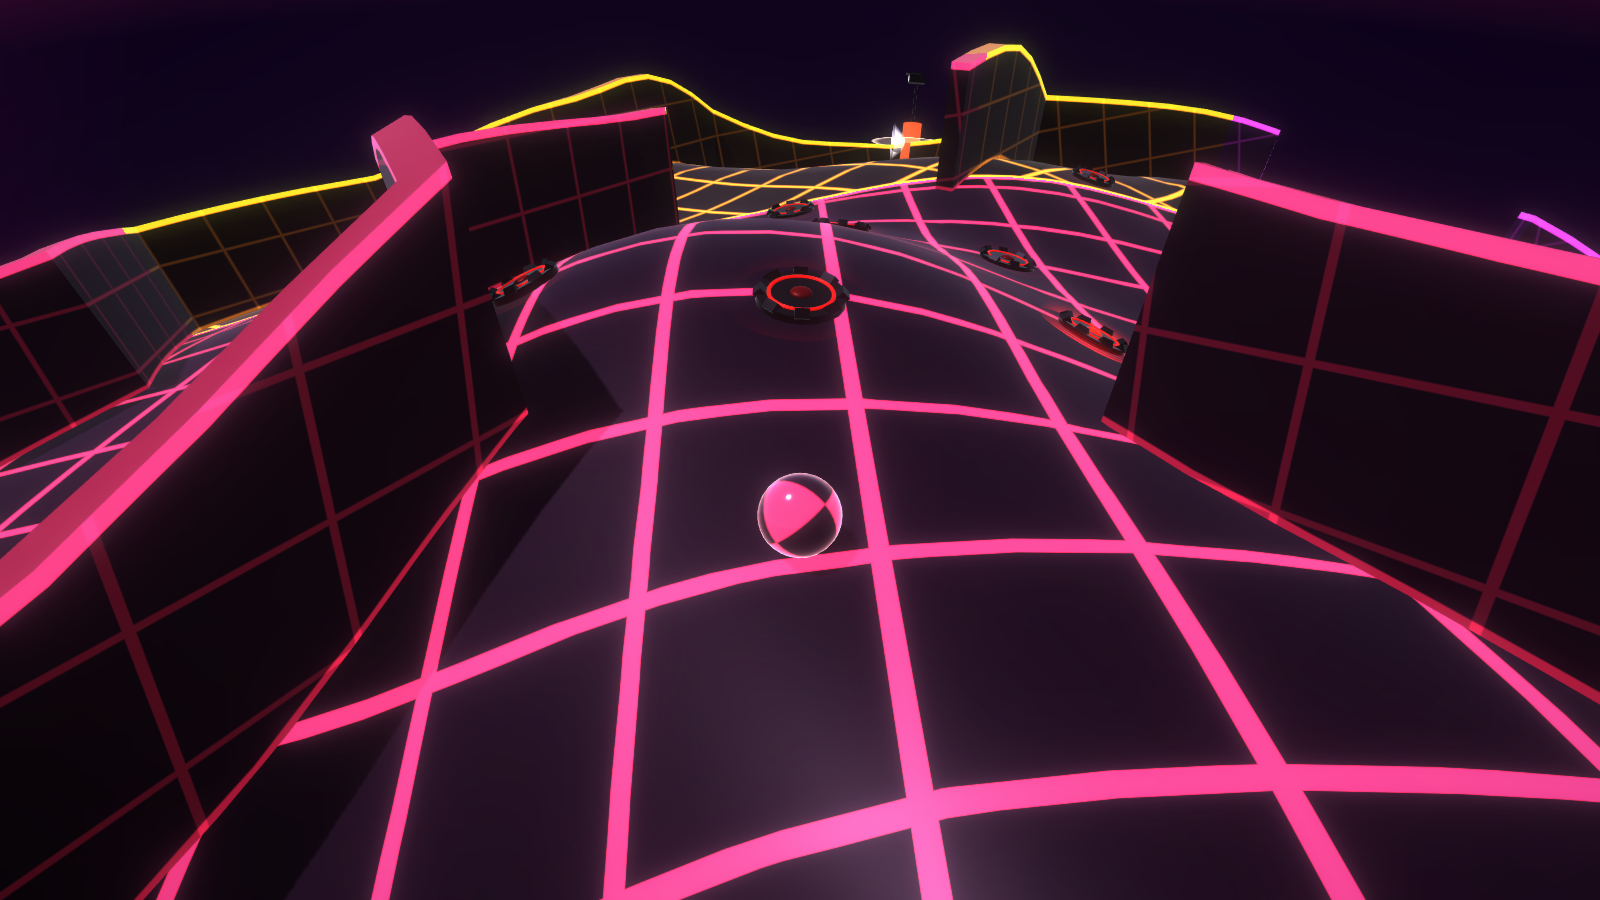
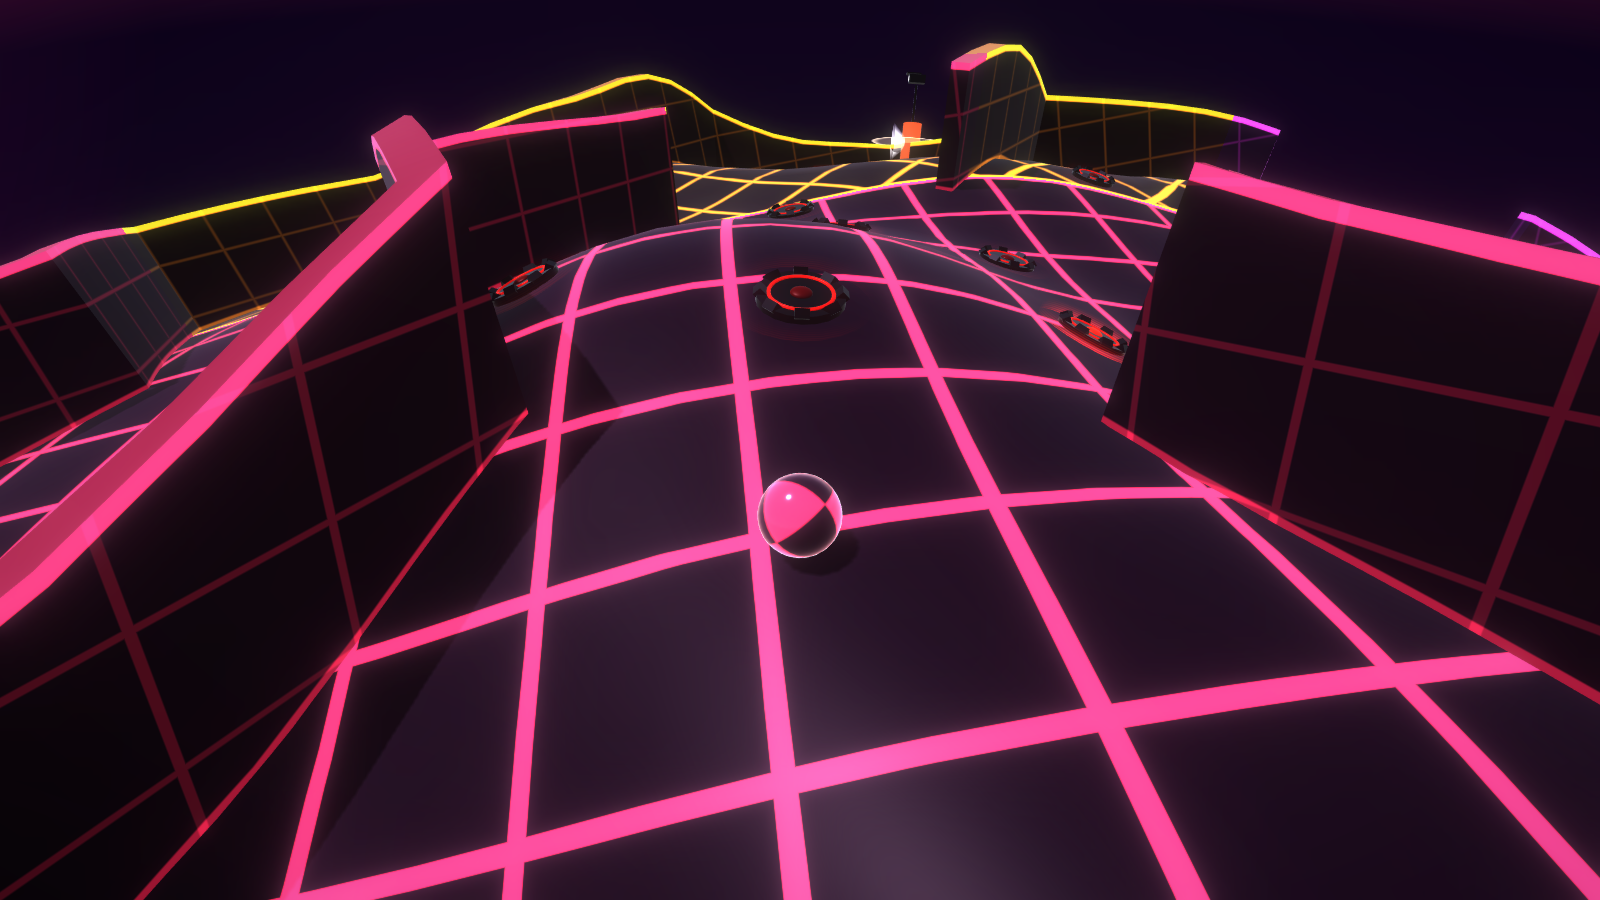
Refresh README screenshots for the new floors and boiling acid
Re-rendered the screenshots (the tool now runs particle effects on a
few seconds first, so the acid pool's steam shows) and re-captured the
two score screenshots in Play mode.

Changed region(s): [[0.1562, 0.1556, 1.0, 1.0], [0.0, 0.3422, 0.1562, 0.6222], [0.0938, 0.9333, 0.125, 1.0]]

diff --git a/Assets/Editor/SphereDescentSetup.cs b/Assets/Editor/SphereDescentSetup.cs
@@ -867,6 +867,8 @@ namespace SphereDescent.EditorTools
             var settings = gm.settings;
             var layout = MazeLayout.Generate(settings, gm.SeedFor(1));
             var level = LevelBuilder.Build(layout, settings, gm.materials, 1);
+            // Particle effects (the steam off acid pools) don't run outside Play mode: run them on a few seconds.
+            foreach (var ps in level.GetComponentsInChildren<ParticleSystem>(true)) ps.Simulate(4f, true, true);
             var cam = Camera.main;
             var sun = gm.sun;
             var orbit = cam.GetComponent<OrbitCamera>();
